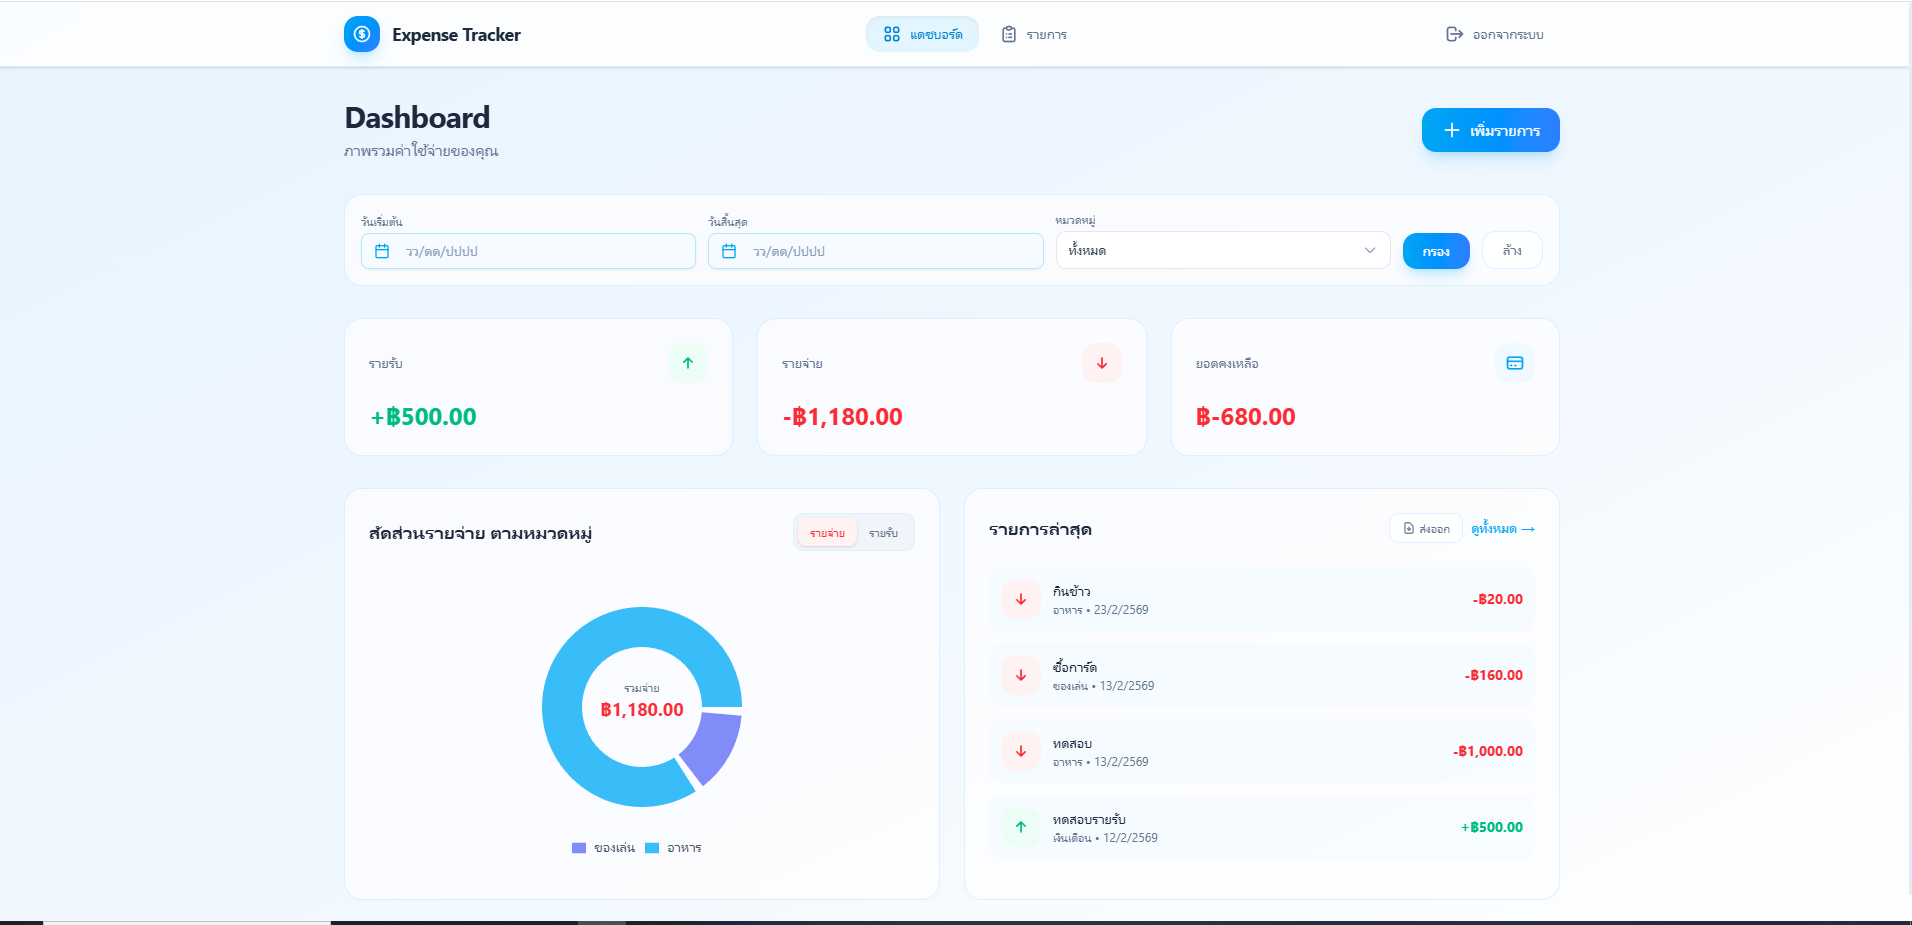
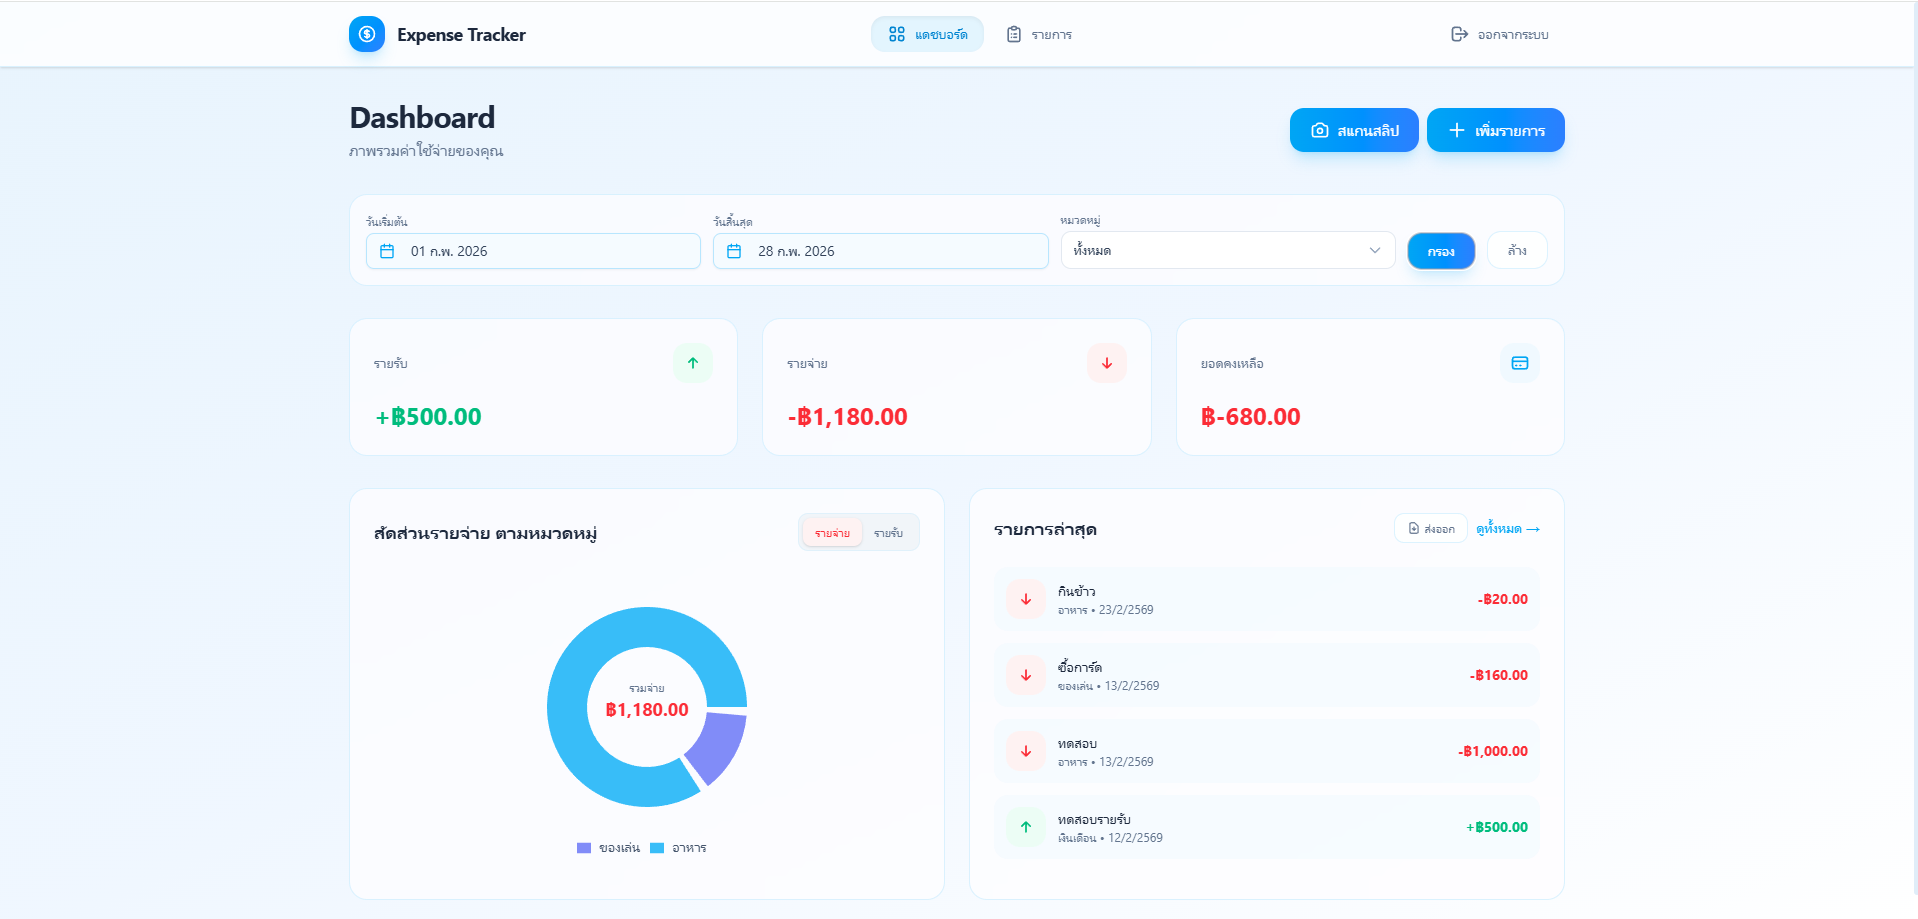
update desc

diff --git a/src/components/Projects.tsx b/src/components/Projects.tsx
@@ -16,7 +16,7 @@ const projects = [
   },
   {
     name: "Money-Tracker",
-    desc: "Full-stack expense tracking platform featuring interactive dashboard summaries, dynamic categorization, and advanced date filtering.",
+    desc: "Full-stack expense platform with AI-powered slip scanning for automated logging, interactive dashboard summaries, and dynamic data filtering.",
     tags: ["Next.js", "ElysiaJS", "PostgreSQL"],
     url: "https://money-tracker-omega-ten.vercel.app",
     color: "#22c55e",
